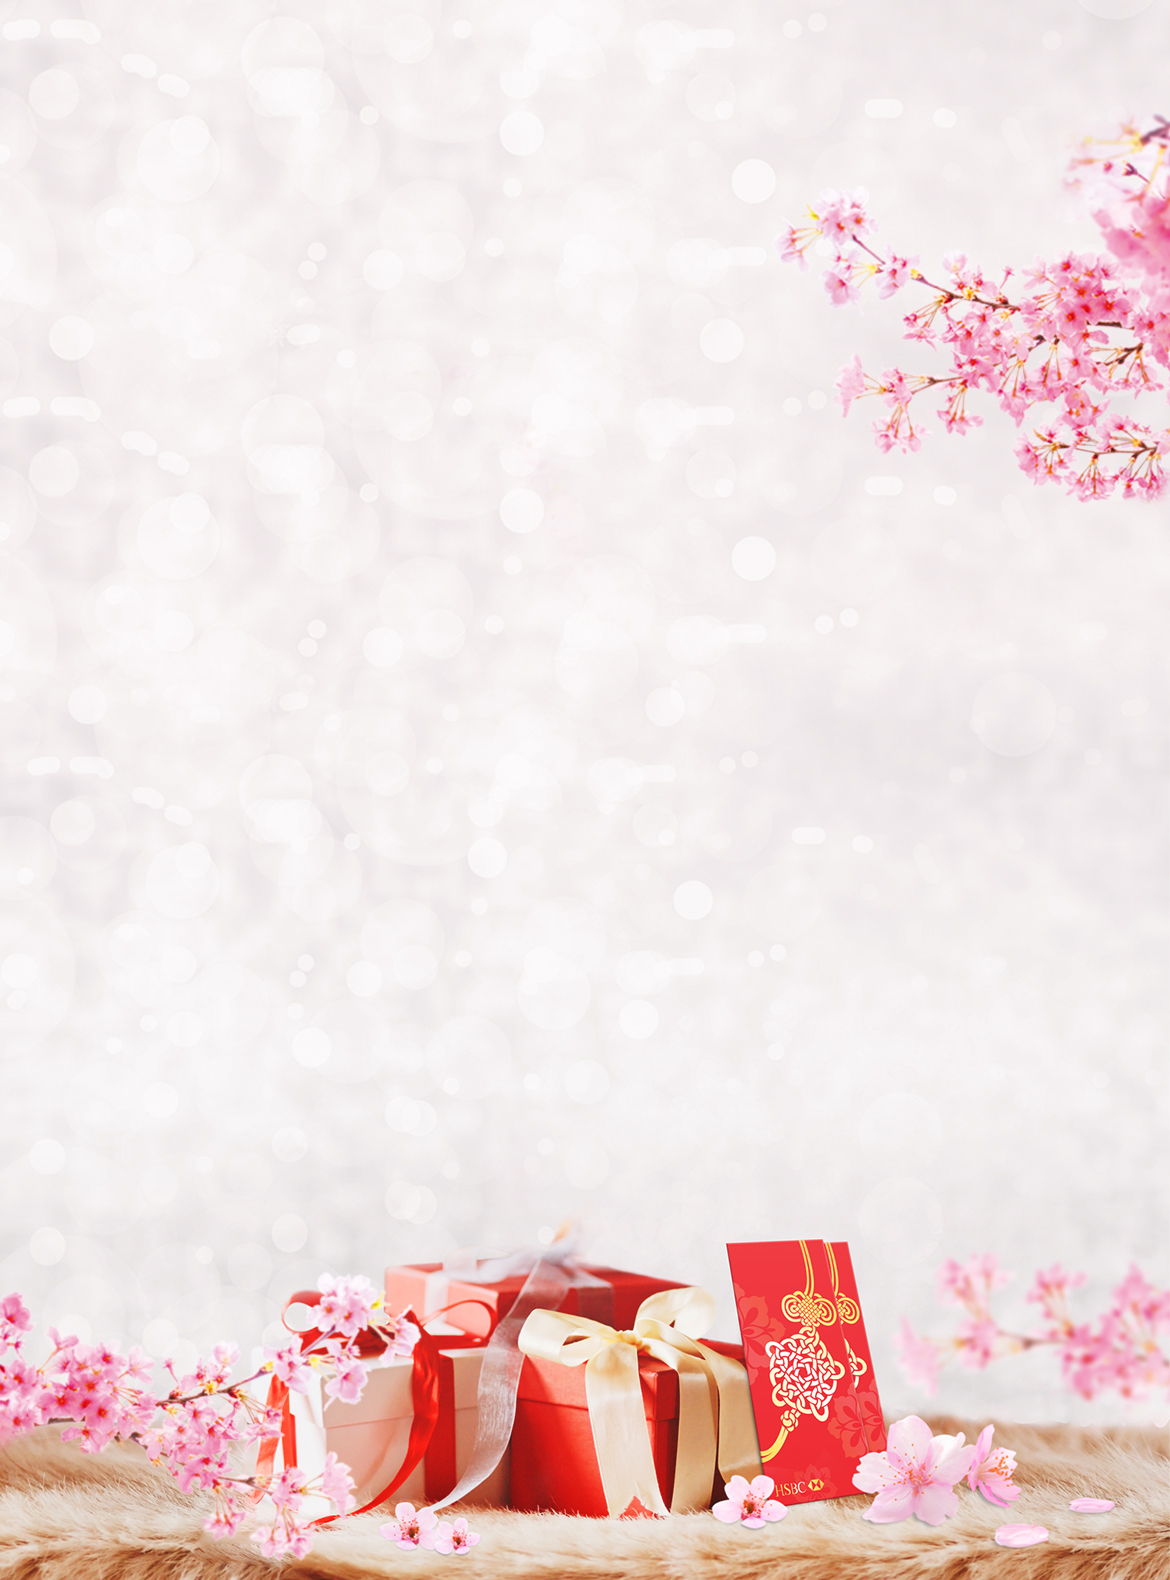
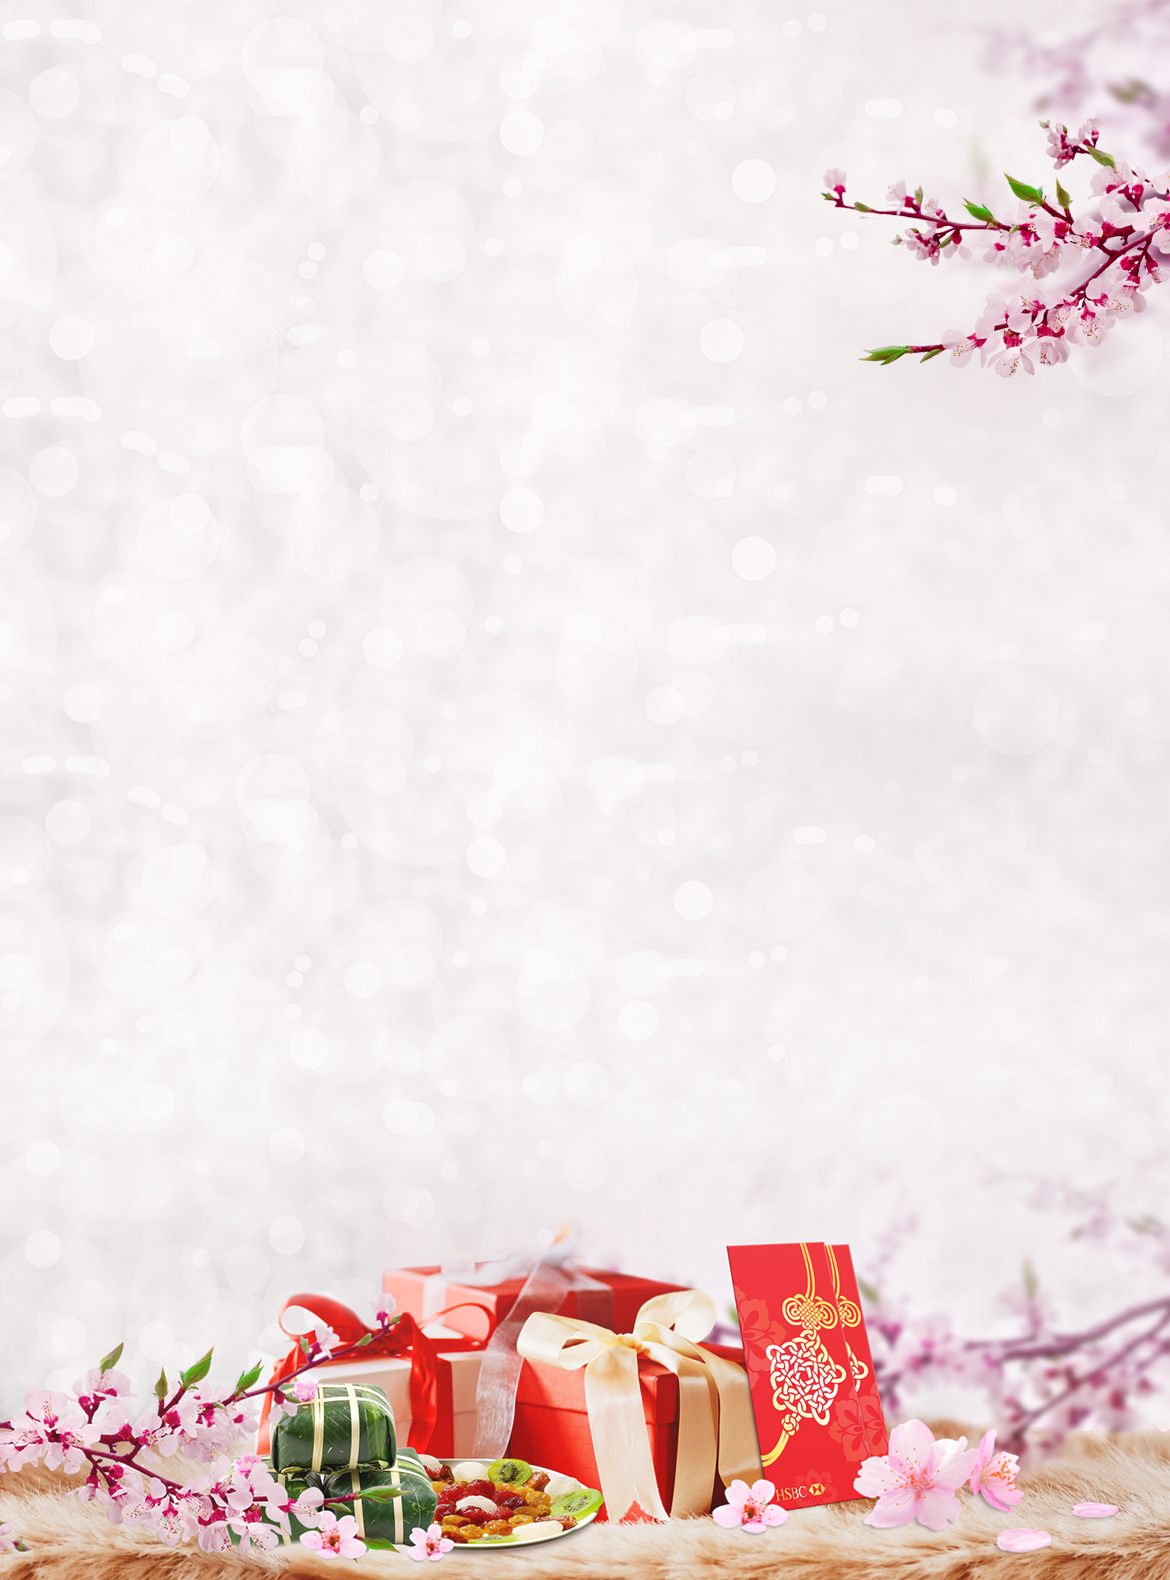
ou

Changed region(s): [[0.0, 0.7753, 1.0, 1.0], [0.6769, 0.0, 1.0, 0.3411]]

diff --git a/index_en.html b/index_en.html
@@ -4,7 +4,9 @@
   <meta charset="UTF-8">
   <meta name="viewport" content="width=device-width, initial-scale=1, shrink-to-fit=no">
   <title>Spread your care, your love around with Red Packet | HSBC (Việt Nam)</title>
-
+  <meta property="og:image" content="/images/fb-share.jpg?time=1">
+  <meta property="og:image:width" content="1200">
+  <meta property="og:image:height" content="630">
   <link rel="stylesheet" href="https://cdnjs.cloudflare.com/ajax/libs/twitter-bootstrap/4.0.0-beta.3/css/bootstrap.min.css">
   <link rel="stylesheet" href="https://cdnjs.cloudflare.com/ajax/libs/font-awesome/4.7.0/css/font-awesome.min.css">
   <link rel="stylesheet" href="css/style.css?time=012029122020">

diff --git a/index_vi.html b/index_vi.html
@@ -4,7 +4,9 @@
   <meta charset="UTF-8">
   <meta name="viewport" content="width=device-width, initial-scale=1, shrink-to-fit=no">
   <title>Lì xì may mắn | HSBC (Việt Nam)</title>
-
+  <meta property="og:image" content="/images/fb-share.jpg?time=1">
+  <meta property="og:image:width" content="1200">
+  <meta property="og:image:height" content="630">
   <link rel="stylesheet" href="https://cdnjs.cloudflare.com/ajax/libs/twitter-bootstrap/4.0.0-beta.3/css/bootstrap.min.css">
   <link rel="stylesheet" href="https://cdnjs.cloudflare.com/ajax/libs/font-awesome/4.7.0/css/font-awesome.min.css">
   <link rel="stylesheet" href="css/style.css?time=012029122020">

diff --git a/css/style.css b/css/style.css
@@ -269,7 +269,7 @@ a.color-red:hover {
 }
 
 .redpacket-calculator-detail {
-    background-image: url('../images/pc/gift_1170x1218.jpg?time=123');
+    background-image: url('../images/pc/gift_1170x1580.jpg?time=123');
     background-position: center bottom;
     background-size: 100% auto;
     background-color: #ffebf0;
